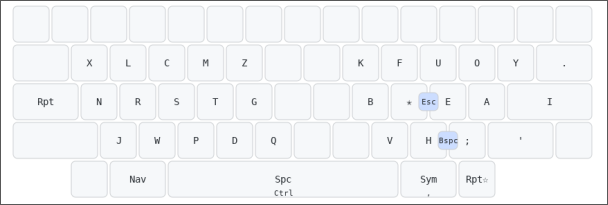
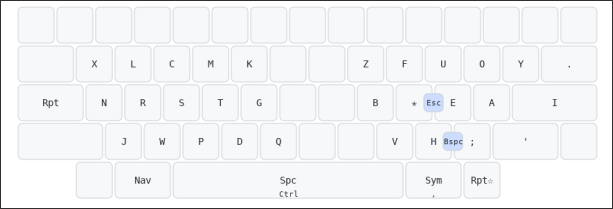
update keyboard layout(zk swap)

diff --git a/modules/nixos/sysconf/psilocybin.md b/modules/nixos/sysconf/psilocybin.md
@@ -49,14 +49,14 @@ Psilocybin is a magic layout designed for HHKB layout, with slides and magic key
 | `rt⚝`    | `rtment`    |
 | `nt⚝`    | `ntment`    |
 | `st⚝`    | `stment`    |
+| `ft⚝`    | `ftment`    |
 | `eat⚝`   | `eatment`   |
 | `uit⚝`   | `uitment`   |
 | `mit⚝`   | `mitment`   |
-| `k⬡`     | `ke`        |
-| `k⬢`     | `ke`        |
 | `i⬡`     | `ing`       |
 | `y⬡`     | `ying`      |
 | `v⬡ `    | `ving`      |
+| `k⬢ `    | `king`      |
 | `ng⬡`    | `nging`     |
 | `nd⬡`    | `nding`     |
 | `ow⬡`    | `owing`     |
@@ -66,9 +66,6 @@ Psilocybin is a magic layout designed for HHKB layout, with slides and magic key
 | `w⬢`     | `was`       |
 | `h⬡`     | `hav`       |
 
-### KE
-Make sure to use left repeat key for most `ke`s (`make`, `like`, `take`, `take`, `makes`)\
-Use right repeat key only for `key`, it should feel like a roll
 
 ## Fingering and slides
 
